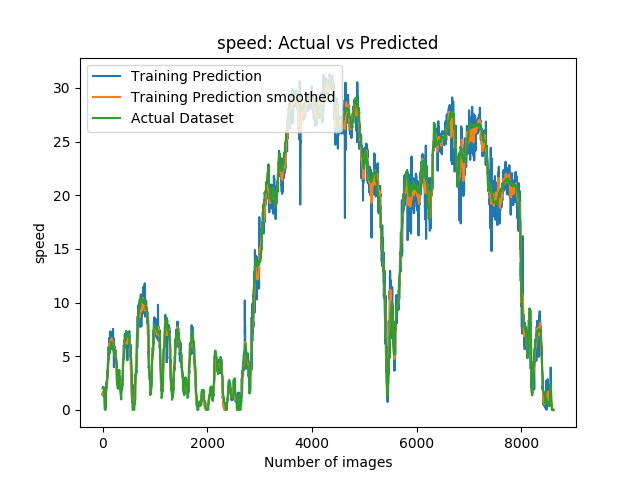
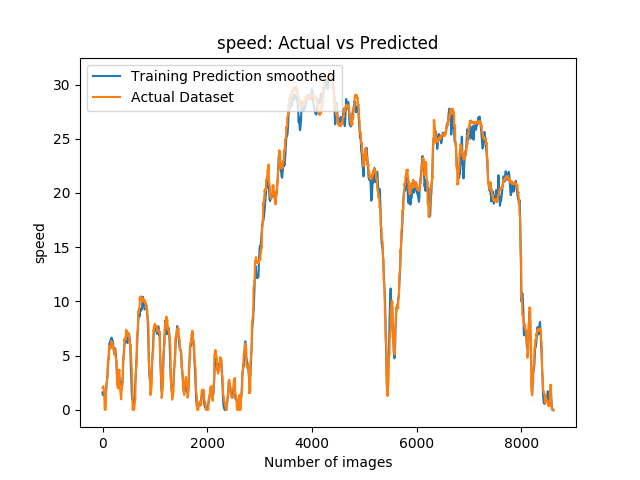
added command line params for extract-images changed the vis, added json path for inference load data methods use params from inference

diff --git a/inference.py b/inference.py
@@ -25,8 +25,6 @@ data_output_path='./data_predicted/'
 model_path='./model_weights/model.json'
 model_weights_path='./model_weights/'
 
-data_labels_path='./speed_challenge/drive.json'
-
 # optical flow dense draw on the video
 # reference from here: https://github.com/opencv/opencv/blob/master/samples/python/opt_flow.py
 def drawDenseOptFlow(image, next_image):
@@ -43,11 +41,11 @@ def drawDenseOptFlow(image, next_image):
     y, x = np.mgrid[step/2:h:step, step/2:w:step].reshape(2,-1).astype(int)
     fx, fy = flow[y,x].T
     lines = np.vstack([x, y, x+fx, y+fy]).T.reshape(-1, 2, 2)
-    lines = np.int32(lines + 0.5)
+    lines = np.int32(lines + 2.5)
     vis_flow = cv2.cvtColor(next_image_grey, cv2.COLOR_GRAY2BGR)
-    cv2.polylines(vis_flow, lines, 0, (0, 255, 0))
+    cv2.polylines(vis_flow, lines, 1, (0, 0, 255), 2)
     for (x1, y1), (x2, y2) in lines:
-        cv2.circle(vis_flow, (x1, y1), 1, (0, 255, 0), -1)
+        cv2.circle(vis_flow, (x1, y1), 2, (0, 255, 0), -1)
 
     # draw the hsv
     h, w = flow.shape[:2]
@@ -76,7 +74,8 @@ def drawDenseOptFlow(image, next_image):
 
     return vis_flow, vis_hsv, vis_hsv_rgb
 
-def main(images_extracted_path, mode="dense_optical_flow", video_generation="no"):
+def main(images_extracted_path, data_json_path, mode="dense_optical_flow", video_generation="no"):
+
     json_file = open(model_path, 'r')
     loaded_model_val = json_file.read()
     json_file.close()
@@ -94,12 +93,16 @@ def main(images_extracted_path, mode="dense_optical_flow", video_generation="no"
     model_val.compile(loss='mse', optimizer='adam')
     print("compiled the model")
 
+    # load the json data, with image names and the speeds
+    with open(data_json_path) as data_file:
+        data = json.load(data_file)
+
     if mode == "dense_optical_flow":
-        x = load_data.load_XDenseOptFlowInput()
-        y_actual = load_data.load_yDenseOptFlowLabels()
+        x = load_data.load_XDenseOptFlowInput(data)
+        y_actual = load_data.load_yDenseOptFlowLabels(data)
     else:
-        x = load_data.load_xInput()
-        y_actual = load_data.load_yLabels()
+        x = load_data.load_xInput(data)
+        y_actual = load_data.load_yLabels(data)
 
     # evaluate the weights
     print('evaluating....')
@@ -121,7 +124,7 @@ def main(images_extracted_path, mode="dense_optical_flow", video_generation="no"
 
     # Plotting speed actual vs predicted
     plt.figure(0)
-    plt.plot(y, label = 'Training Prediction')
+    #plt.plot(y, label = 'Training Prediction')
     plt.plot(y_predicted, label = 'Training Prediction smoothed')
     plt.plot(y_actual, label = 'Actual Dataset')
     plt.title('speed: Actual vs Predicted')
@@ -138,9 +141,6 @@ def main(images_extracted_path, mode="dense_optical_flow", video_generation="no"
     # annotate the images and save
     if video_generation == "yes":
         print('generating video.....')
-        # load the json data
-        with open(data_labels_path) as data_file:
-            data = json.load(data_file)
 
         for i in range(0, len(y_predicted)):
             if mode == "dense_optical_flow":
@@ -187,10 +187,16 @@ def main(images_extracted_path, mode="dense_optical_flow", video_generation="no"
 if __name__ == '__main__':
     parser = argparse.ArgumentParser(description='inference for speed estimation')
     parser.add_argument(
-        '--extracted_images_path',
+        '--extracted_images',
         type=str,
         default='./data_extracted/',
         help='path for the extarcted images'
+    )
+    parser.add_argument(
+        '--data_json',
+        type=str,
+        default="./speed_challenge/drive.json",
+        help='path for the json file, which has the image names and the speeds'
     )
     parser.add_argument(
         '--mode',
@@ -199,11 +205,11 @@ if __name__ == '__main__':
         help='mode to indicate whether the inference should happen with rgb or dense optical flow'
     )
     parser.add_argument(
-        '--video_generation',
+        '--video',
         type=str,
         default="yes",
         help='flag to indicate whether the video should be generated'
     )
     args = parser.parse_args()
 
-    main(args.extracted_images_path, args.mode, args.video_generation)
+    main(args.extracted_images, args.data_json, args.mode, args.video,)

diff --git a/extract_images.py b/extract_images.py
@@ -8,30 +8,62 @@ from __future__ import print_function
 
 import cv2
 import json
+import argparse
+import subprocess
 
-# folder name, where the data is given
-data_labels_path = './speed_challenge/drive.json'
-data_path = './speed_challenge/drive.mp4'
-data_extracted_path = './data_extracted/'
+# no.of images extracted
+count=0
 
-#load the json data
-with open(data_labels_path) as data_file:
-   data = json.load(data_file)
+def main(video_path, data_json_path, data_extracted_path):
+    # if data json file is not avilable
+    if data_json_path != "no":
+        #load the json data
+        with open(data_json_path) as data_file:
+            data = json.load(data_file)
 
-# load the data
-cap = cv2.VideoCapture(data_path)
+    # load the data
+    cap = cv2.VideoCapture(video_path)
 
-# frames per sec
-fps = cap.get(cv2.cv.CV_CAP_PROP_FPS)
-print("Frames per second in the input video: {0}".format(fps))
+    # check if the video is opened sucessfully
+    if cap.isOpened() == True:
+        global count
 
-count = 0
-while cap.isOpened():
-    ret,frame = cap.read()
-    cv2.imshow('window-name',frame)
-    cv2.imwrite(data_extracted_path+"%f.jpg" % data[count][0], frame)
-    count = count + 1
-    if cv2.waitKey(10) & 0xFF == ord('q'):
-        break
+        # frames per sec
+        fps = cap.get(cv2.cv.CV_CAP_PROP_FPS)
+        print("Frames per second in the input video: {0}".format(fps))
 
-cap.release()
+        while cap.isOpened():
+            ret,frame = cap.read()
+            cv2.imshow('video',frame)
+            if data_json_path != "no":
+                cv2.imwrite(data_extracted_path+"%f.jpg" % data[count][0], frame)
+            else:
+                cv2.imwrite(data_extracted_path+"%f.jpg" % count, frame)
+            count = count + 1
+            if cv2.waitKey(10) & 0xFF == ord('q'):
+                break
+
+        cap.release()
+    else:
+        print("the video can not be opened\ncheck the video or use different opencv version\nusing opencv version: ",cv2.__version__)
+
+if __name__ == '__main__':
+    parser = argparse.ArgumentParser(description='extract images from the video and labels if avialable')
+    parser.add_argument(
+        '--video',
+        type=str,
+        help='path for the video, usage: --video "./speed_challenge/drive.mp4"'
+    )
+    parser.add_argument(
+        '--data_json',
+        type=str,
+        help='path for the json file if available, usage: --data_json "./speed_challenge/drive.json" or --data_json "no" if not avialable'
+    )
+    parser.add_argument(
+        '--data_extracted',
+        type=str,
+        help='path where the extracted images are stored, usage: --data_extracted "./data_extracted/"'
+    )
+    args = parser.parse_args()
+
+    main(args.video, args.data_json, args.data_extracted)

diff --git a/load_data.py b/load_data.py
@@ -244,32 +244,36 @@ def genDataDOpticalflow(mode, batch_size=64):
 
         yield shuffle(np.array(X_batch), np.array(y_batch))
 
+##############################################################################
+# methods will be used in inference.py
+# should be moved...!!!
+
 # this returns the images as a numpy array
-def load_xInput():
+def load_xInput(data_json_extracted):
     x=[]
-    for i in range(0, len(data)):
-        xt=plt.imread(data_extracted_path+"%f.jpg" % data[i][0])
-        raw_speed = data[i][1]
+    for i in range(0, len(data_json_extracted)):
+        xt=plt.imread(data_extracted_path+"%f.jpg" % data_json_extracted[i][0])
+        raw_speed = data_json_extracted[i][1]
         new_image = processGeneratedImage(xt)
         x.append(new_image)
 
     return np.array(x)
 
 # this returns the speeds as a numpy array
-def load_yLabels():
+def load_yLabels(data_json_extracted):
     y=[]
-    for i in range(0, len(data)):
-        yt=data[i][1]
+    for i in range(0, len(data_json_extracted)):
+        yt=data_json_extracted[i][1]
         y.append(yt)
 
     return np.array(y)
 
-def load_XDenseOptFlowInput():
+def load_XDenseOptFlowInput(data_json_extracted):
     x=[]
-    for i in range(0, len(data)-1):
+    for i in range(0, len(data_json_extracted)-1):
         # get the current image and the next image
-        curr_img = data[i][0]
-        next_img = data[i + 1][0]
+        curr_img = data_json_extracted[i][0]
+        next_img = data_json_extracted[i + 1][0]
 
         # process the image
         curr_img = plt.imread(data_extracted_path+"%f.jpg" % curr_img)
@@ -286,11 +290,11 @@ def load_XDenseOptFlowInput():
     return np.array(x)
 
 # this returns the speeds as a numpy array
-def load_yDenseOptFlowLabels():
+def load_yDenseOptFlowLabels(data_json_extracted):
     y=[]
-    for i in range(1, len(data)):
+    for i in range(1, len(data_json_extracted)):
         # as we estimate the speed of next image
-        yt = data[i][1]
+        yt = data_json_extracted[i][1]
         y.append(yt)
 
     return np.array(y)
